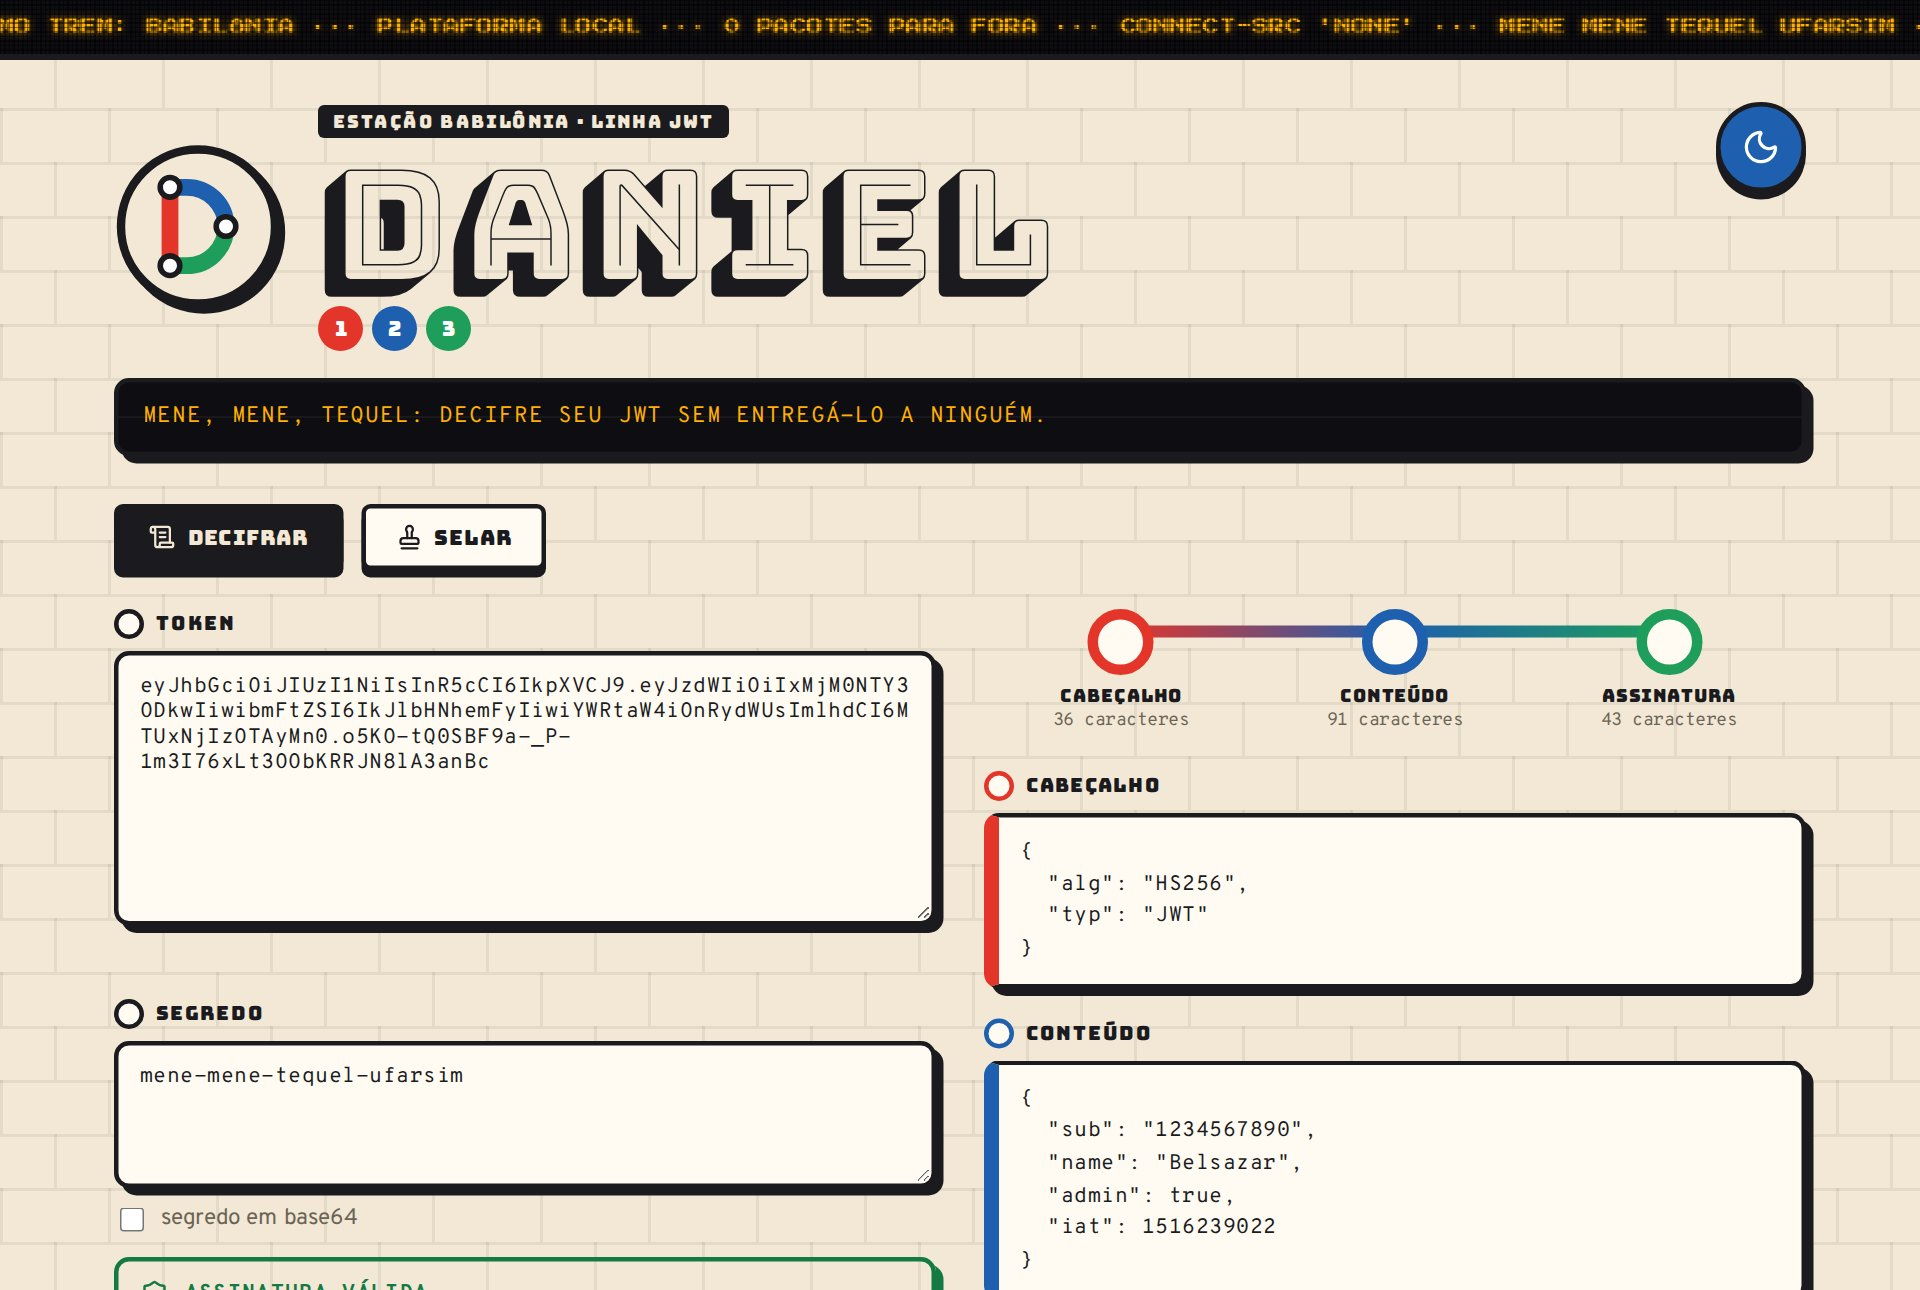
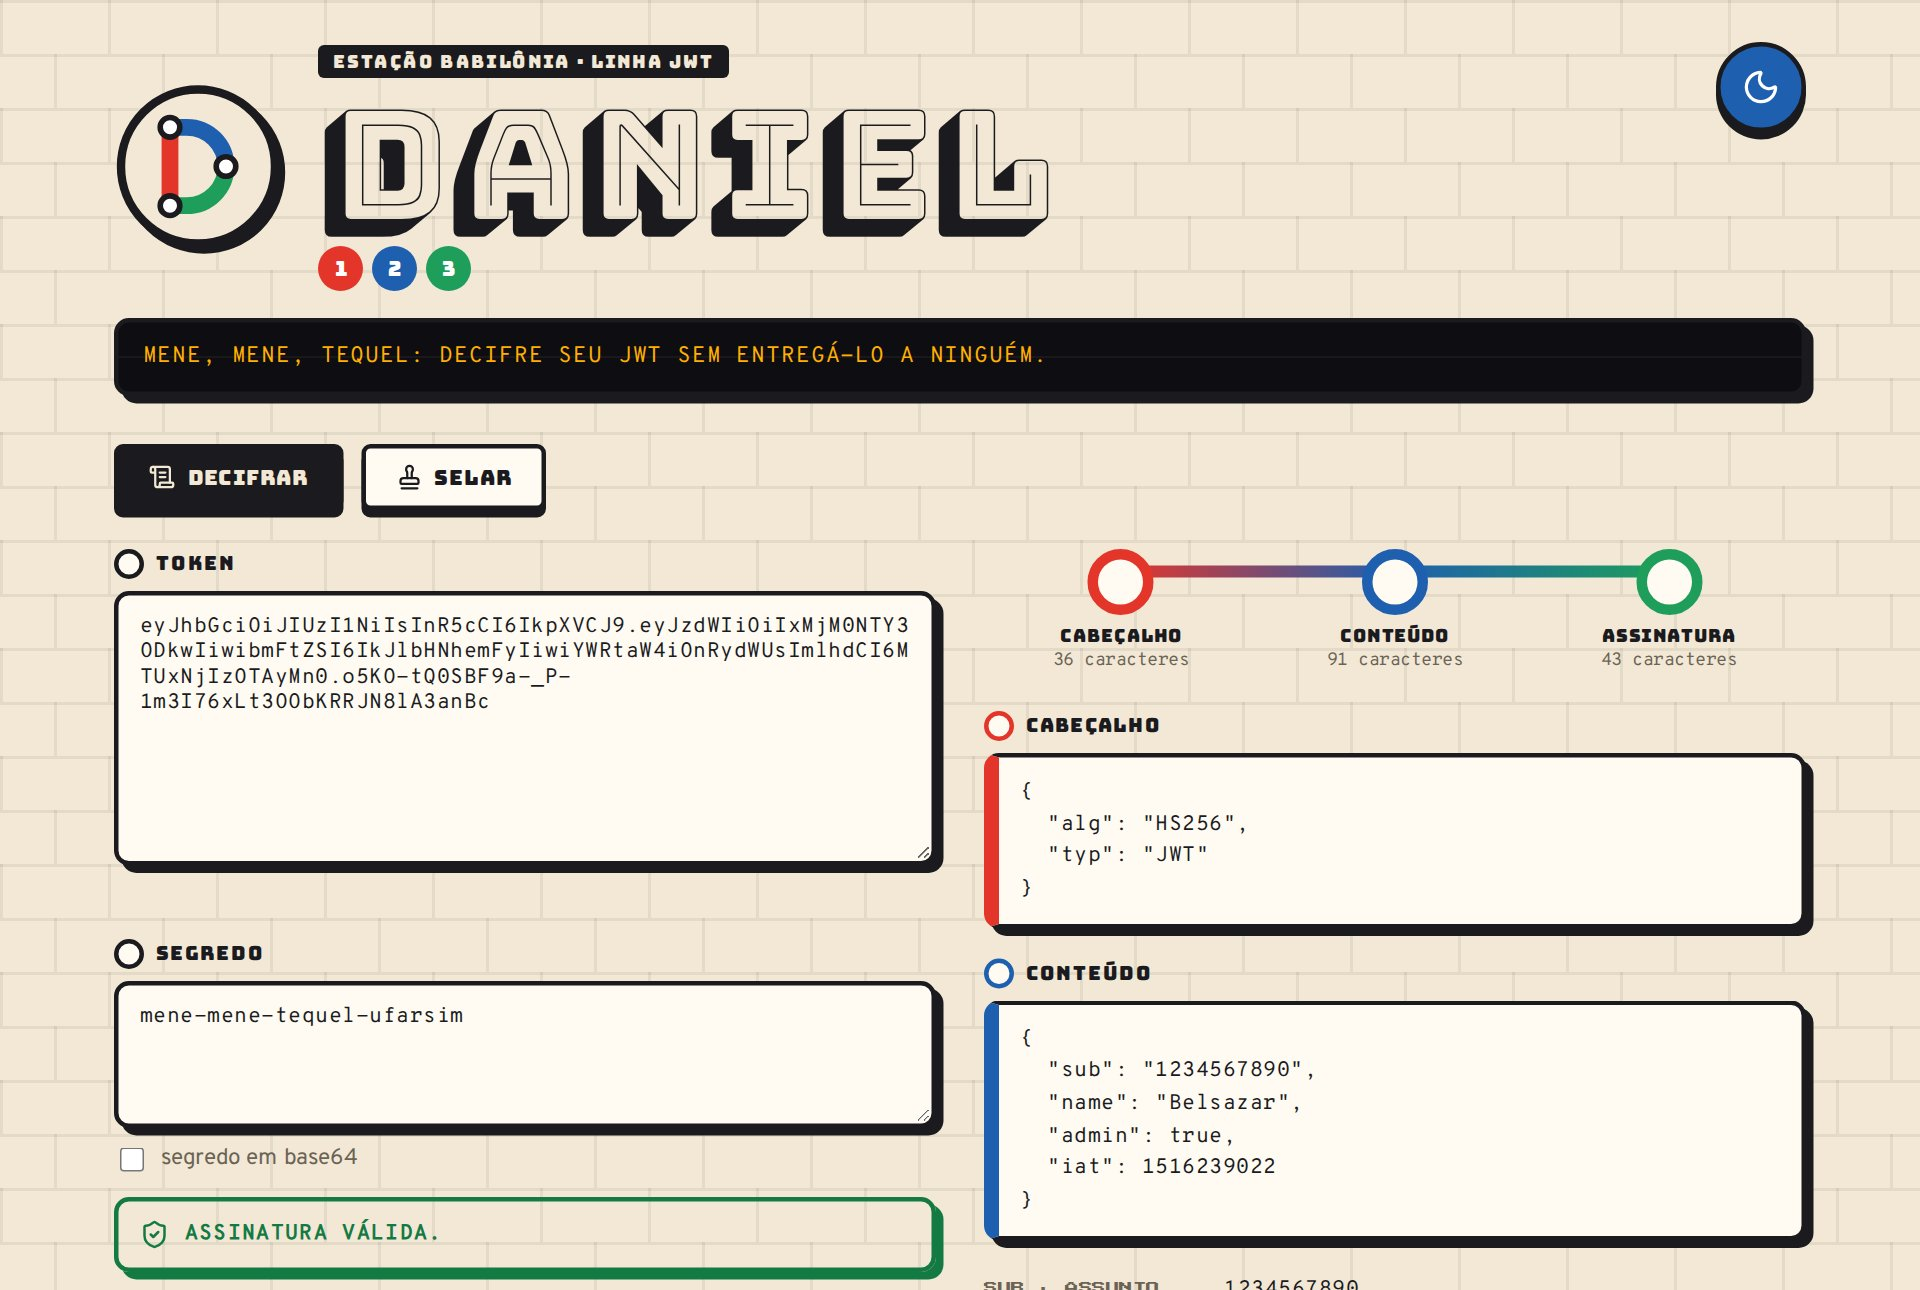
style: remove o letreiro de LED do topo

diff --git a/src/ui/style.css b/src/ui/style.css
@@ -140,34 +140,6 @@ output {
   animation: crt-off 0.6s ease-in forwards;
 }
 
-/* ---------- letreiro de LED ---------- */
-.ticker {
-  position: relative;
-  overflow: hidden;
-  margin: 0 calc(50% - 50vw); /* de ponta a ponta da tela */
-  border-bottom: 4px solid var(--edge);
-  background: var(--board);
-  color: var(--led);
-  font: 11px / 36px var(--pixel);
-  text-transform: uppercase;
-  text-shadow: 0 0 6px rgb(255 176 0 / 0.7);
-  white-space: nowrap;
-}
-/* matriz de pontos por cima */
-.ticker::after {
-  content: "";
-  position: absolute;
-  inset: 0;
-  background:
-    repeating-linear-gradient(to bottom, rgb(0 0 0 / 0.45) 0 1px, transparent 1px 3px),
-    repeating-linear-gradient(to right, rgb(0 0 0 / 0.45) 0 1px, transparent 1px 3px);
-  pointer-events: none;
-}
-.ticker-track {
-  display: inline-block;
-  animation: ticker 45s linear infinite;
-}
-
 /* ---------- placa da estação ---------- */
 .masthead {
   display: grid;
@@ -669,11 +641,6 @@ footer p {
 @keyframes blink {
   50% {
     opacity: 0;
-  }
-}
-@keyframes ticker {
-  to {
-    transform: translateX(-50%);
   }
 }
 @keyframes train {

diff --git a/index.html b/index.html
@@ -26,13 +26,6 @@
   </div>
   <div id="verdict" class="verdict" aria-hidden="true"></div>
 
-  <div class="ticker" aria-hidden="true">
-    <div class="ticker-track">
-      <span>Próximo trem: Babilônia ··· plataforma local ··· 0 pacotes para fora ··· connect-src 'none' ··· mene mene tequel ufarsim ··· </span>
-      <span>Próximo trem: Babilônia ··· plataforma local ··· 0 pacotes para fora ··· connect-src 'none' ··· mene mene tequel ufarsim ··· </span>
-    </div>
-  </div>
-
   <header class="masthead">
     <img class="logo" src="/logo.svg" alt="Logo do Daniel" width="112" height="112">
     <div class="title">
